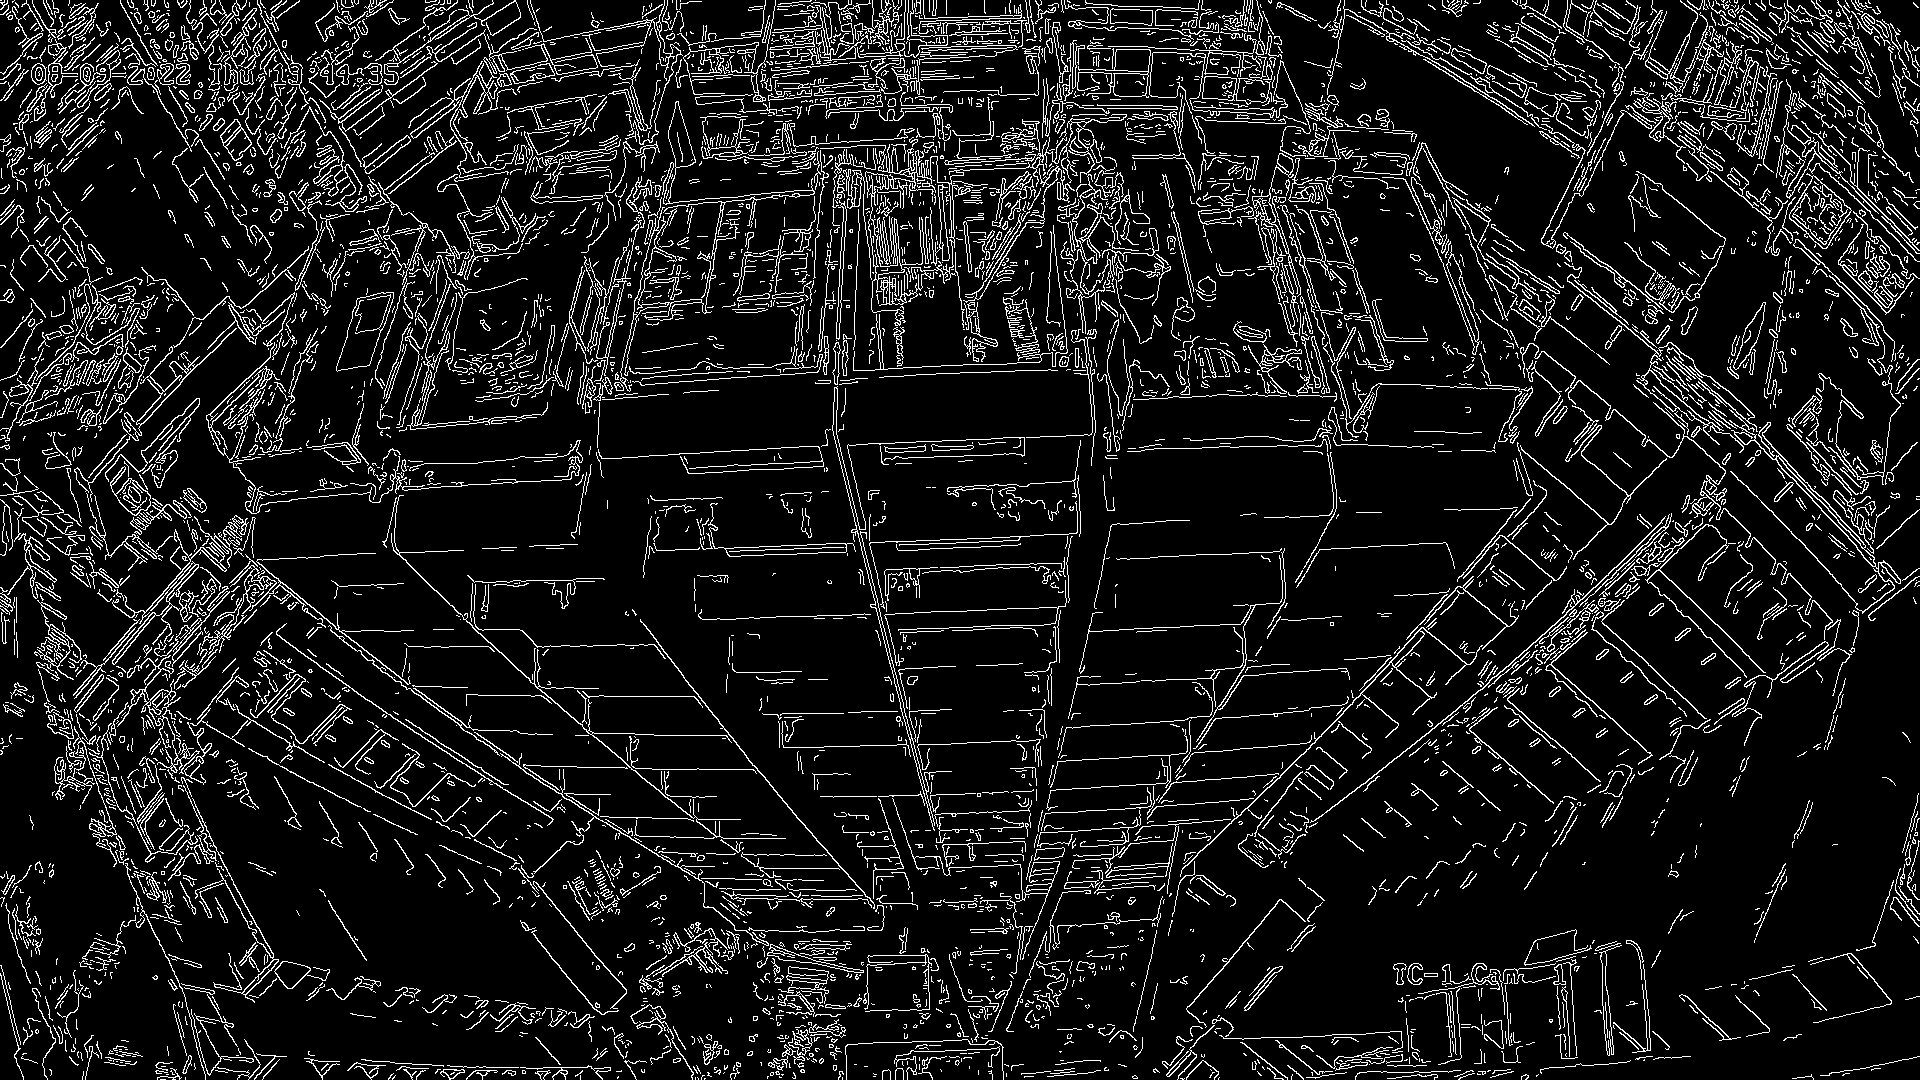
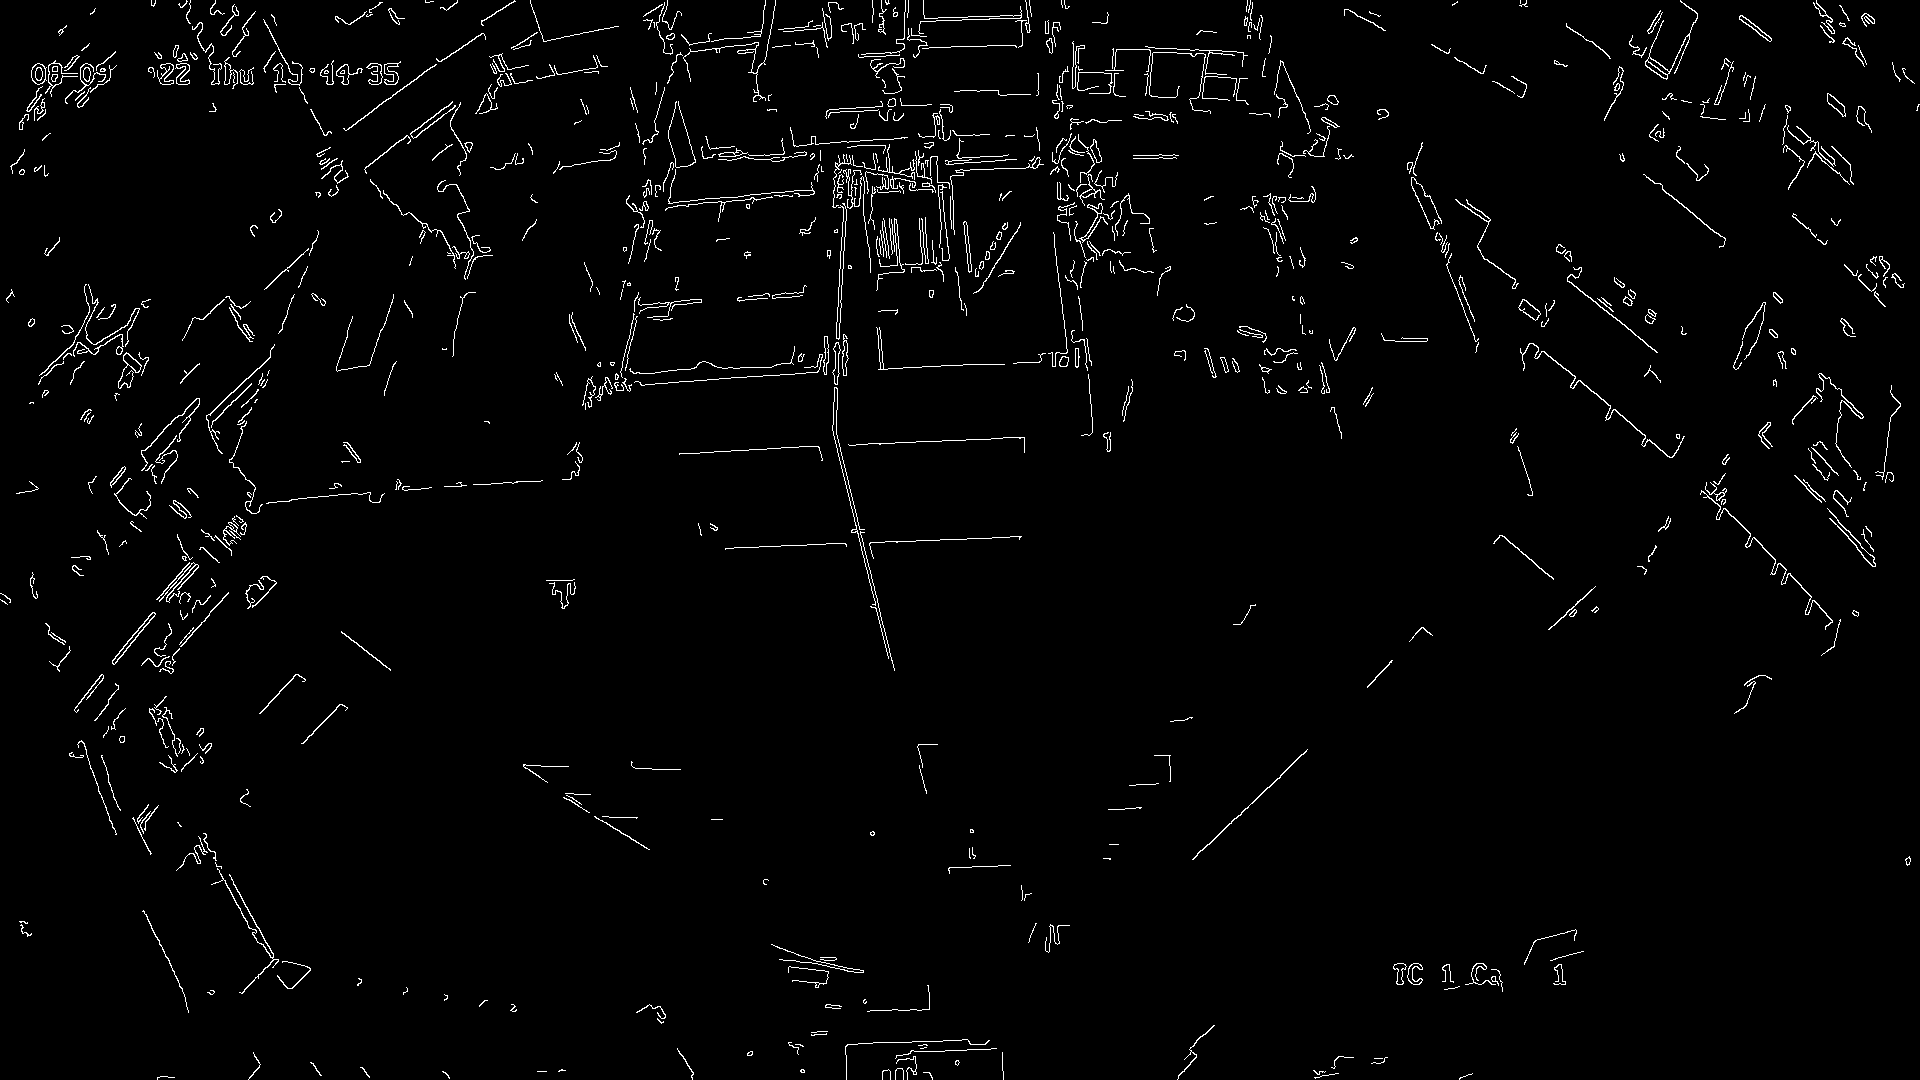
Adding new changes to repo!

diff --git a/detect_edge/canny_edge.py b/detect_edge/canny_edge.py
@@ -1,0 +1,46 @@
+import numpy as np
+import cv2 as cv
+from matplotlib import pyplot as plt
+from configs.config import CannyParams
+
+
+class CannyEdgeDetector(object):
+    def __int__(self, params):
+        self.params: CannyParams = params
+
+    def detect(self, image_path):
+        if self.params is None:
+            raise Exception("Params are not defined. Please set the params for Canny Edge.")
+
+        image1 = cv.imread(image_path)
+        image = cv.imread(image_path)
+        gray = cv.cvtColor(image, cv.COLOR_BGR2GRAY)
+        use_it = gray
+        blurred = cv.GaussianBlur(gray, (3, 3), 0)
+        use_it = blurred
+
+        canny = cv.Canny(image=use_it,
+                         threshold1=self.params.threshold1,
+                         threshold2=self.params.threshold2,
+                         apertureSize=self.params.apertureSize,
+                         L2gradient=self.params.L2gradient)
+
+        cnts = cv.findContours(canny, cv.RETR_TREE, cv.CHAIN_APPROX_SIMPLE)
+        cnts = cnts[0] if len(cnts) == 2 else cnts[1]
+
+        for c in cnts:
+            cv.drawContours(image, [c], 0, (36, 255, 12), 2)
+
+        plt.subplot(121), plt.imshow(image1)
+        plt.title('Original Image'), plt.xticks([]), plt.yticks([])
+
+        plt.subplot(122), plt.imshow(image)
+        plt.title('Edge Image with Aperture + L2gradient'), plt.xticks([]), plt.yticks([])
+
+        plt.show()
+
+        # cv.imshow('canny', canny)
+        # cv.imshow('image', image)
+        cv.imwrite('canny.png', canny)
+        cv.imwrite('image.png', image)
+        # cv.waitKey(0)

diff --git a/main.py b/main.py
@@ -3,22 +3,24 @@
 # Press ⌃R to execute it or replace it with your code.
 # Press Double ⇧ to search everywhere for classes, files, tool windows, actions, and settings.
 
-from detect_edge import experiment
-
-def print_hi(name):
-    # Use a breakpoint in the code line below to debug your script.
-    print(f'Hi, {name}')  # Press ⌘F8 to toggle the breakpoint.
-
+from configs.config import CannyParams
+from detect_edge import canny_edge
 
 # Press the green button in the gutter to run the script.
 if __name__ == '__main__':
-    images = [
-        "assets/photo1717552254.jpeg",
-        "assets/TC1-CAM11662615487.305533.jpg"
-    ]
+    params = CannyParams.getObject()
+    if params is not None:
+        detector = canny_edge.CannyEdgeDetector(
+            params
+        )
 
-    experiment.canny_edge_2(
-        images[1]
-    )
+        images = [
+            "assets/photo1717552254.jpeg",
+            "assets/TC1-CAM11662615487.305533.jpg"
+        ]
+
+        detector.detect(
+            images[1]
+        )
 
 # See PyCharm help at https://www.jetbrains.com/help/pycharm/

diff --git a/configs/config.py b/configs/config.py
@@ -1,0 +1,31 @@
+import json
+
+
+class CannyParams(object):
+
+    def __init__(self, threshold1, threshold2, apertureSize, L2gradient):
+        self.threshold1 = threshold1
+        self.threshold2 = threshold2
+        self.apertureSize = apertureSize
+        self.L2gradient = L2gradient
+
+    @staticmethod
+    def getObject(file_path="configs/params.json"):
+        file = open(file_path)
+        if file:
+            data: dict = json.load(file)
+            key = 'canny_edge_detection_params'
+            if key in data:
+                threshold1 = data[key]['threshold1']
+                threshold2 = data[key]['threshold2']
+                apertureSize = data[key]['apertureSize']
+                L2gradient = data[key]['L2gradient']
+
+                return CannyParams(
+                    threshold1,
+                    threshold2,
+                    apertureSize,
+                    L2gradient
+                )
+            else:
+                return None
